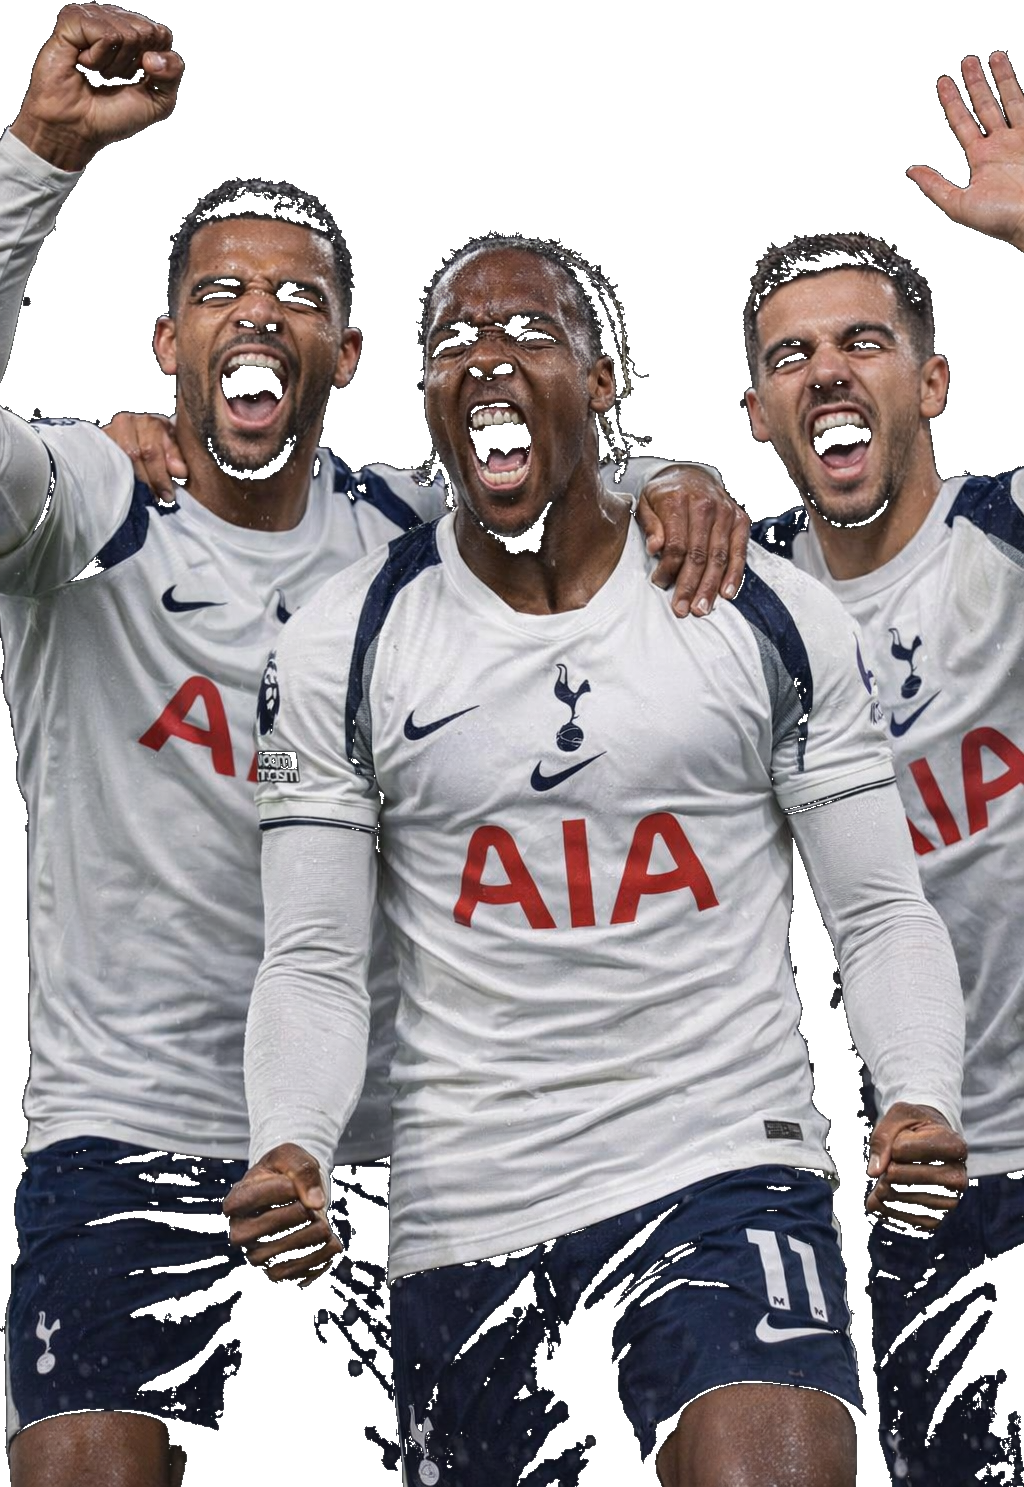
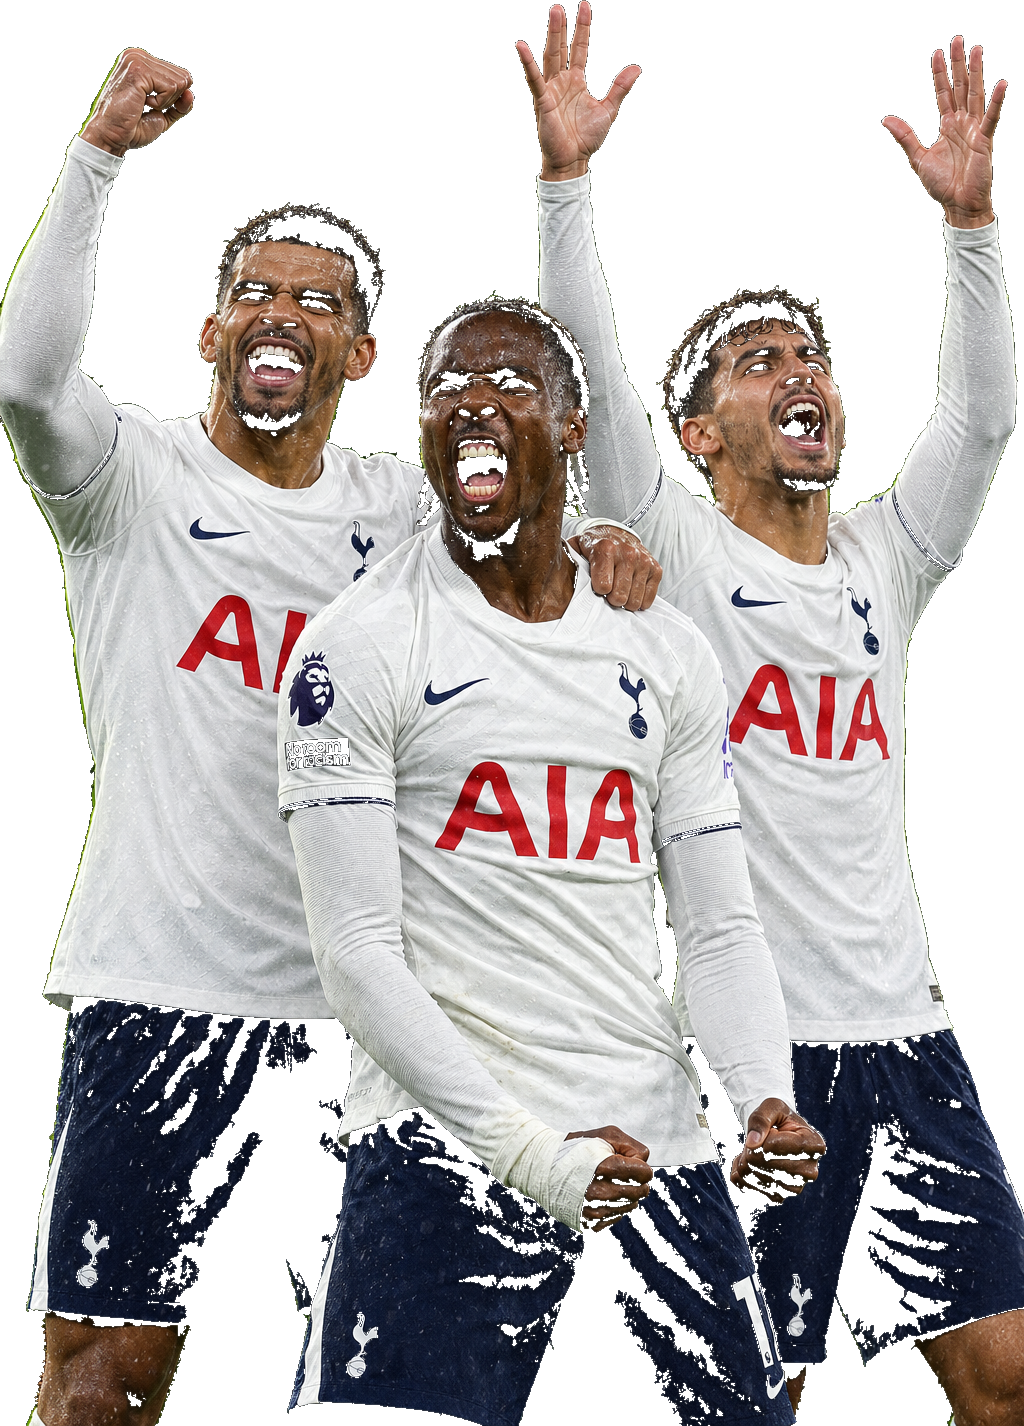
إعادة توليد الثلاثية الجماعية لتيل بمعايير المكتبة المثالية: أطراف كاملة بهوامش، قميص اليوم الأبيض السلس، نسبة موحدة

diff --git a/images/players/README.md b/images/players/README.md
@@ -157,7 +157,7 @@
 | `eng-haaland-header.png` | إرلينغ هالاند | ضربة رأس نازلة صاروخية — تسجيل هدف فيلا بارك من عرضية ندياي (24 أكتوبر) | السيتي الرسمي 25-26 سماوي بتدرّج أبيض | قياسي: fuzz 6% + تنظيف بقايا ألفا — الكرة كاملة ببتاغوناتها وتطاير الشعر محفوظ — الزوايا شفافة تماماً (998×1257) |
 | `eng-jackson-celebration.png` | نيكولاس جاكسون | احتفال الانزلاق على الركبتين — ثنائية فيلا بارك ضد السيتي (6′ و60′، 24 أكتوبر) | فيلا الرسمي 26-27 العنابي بزاويته السماوية برعاية «زيارة رواندا» | قياسي: fuzz 6% + تنظيف بقايا ألفا — الكفّان المفتوحان كاملان والوجه حاد — الزوايا شفافة تماماً (742×898) |
 | `eng-tel-celebration.png` | ماتياس تيل | زئير الاحتفال بقبضتين مشدودتين تحت مطر ستامفورد بريدج — هدفه الفردي الخارق في تشيلسي (87′، 24 أكتوبر) | توتنهام الرسمي 26-27 الأبيض بـAIA الحمراء والديك | مفتاح رياضي: داكن+غير مشبع (خلفية المطر الضجيجية لم تُمسك بالـfuzz) + المكوّن الأكبر — الزوايا شفافة تماماً (577×761) |
-| `eng-tel-trio-celebration.png` | تيل + سولانكه + فرنانديز | أول لقطة جماعية: صراخ الاحتفال الجماعي بعد هدف التقدم العكسي (77′، تشيلسي 24 أكتوبر) — أذرع مرفوعة تحت المطر | توتنهام الرسمي 26-27 بأندرة الكتف الكحلية | نفس المفتاح الرياضي — فجوات الأذرع والأرجل شفافة ويَدا الاحتفال مكوّنات محفوظة — الزاوية السفلية اليمنى ساق تلامس الحافة (جسم) (1024×1487) |
+| `eng-tel-trio-celebration.png` | تيل + سولانكه + فرنانديز | أول لقطة جماعية: صراخ الاحتفال الجماعي بعد هدف التقدم العكسي (77′، تشيلسي 24 أكتوبر) — أذرع مرفوعة تحت المطر | توتنهام الرسمي 26-27 الأبيض السلس بـAIA (مطابق لمباراة اليوم) | مفتاح رياضي: داكن+غير مشبع + المكوّن الأكبر بلا ملء ثقوب — إطار مثالي بمعايير المكتبة: كل الأطراف داخل الإطار بهوامش والقصّ السفلي عند منتصف الفخذ — الزوايا شفافة إلا السفلية اليمنى (فخذ يلامس الحافة) (1024×1426) |
 
 > صور اللحظات أعلاه مولّدة من مراجع حقيقية للحظاتها (حزن يامال بعد
 > الخروج، غضب فليك على الخط، صرخة انريكي برفع الكأس في ميونخ، قفزة
